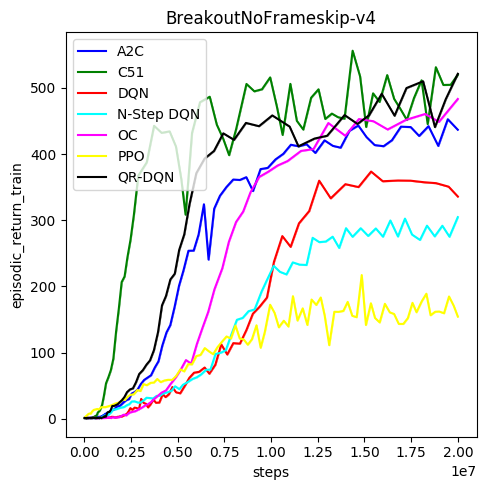
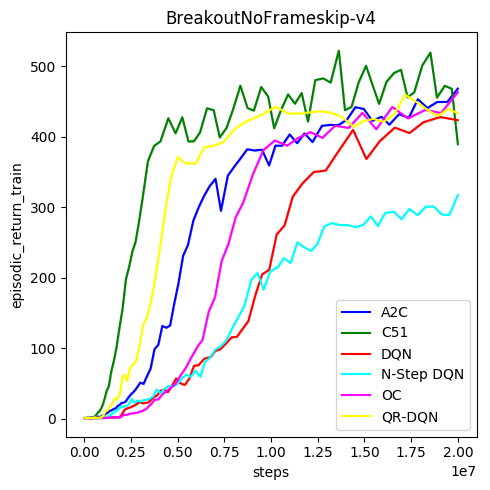
Update Atari game benchmarks

diff --git a/template_plot.py b/template_plot.py
@@ -121,5 +121,5 @@ def plot_atari():
 if __name__ == '__main__':
     mkdir('images')
     # plot_ppo()
-    plot_ddpg_td3()
-    # plot_atari()
+    # plot_ddpg_td3()
+    plot_atari()
